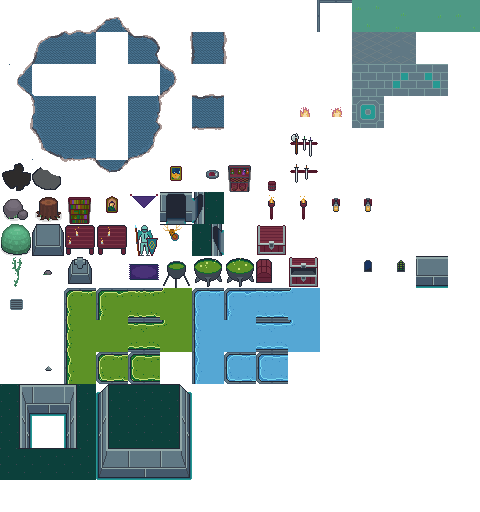
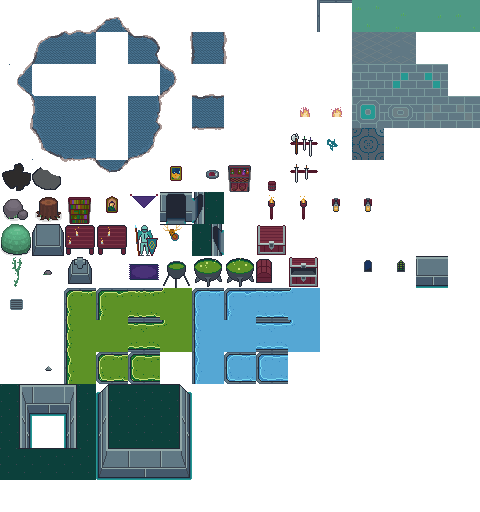
wip

Changed region(s): [[0.6875, 0.1875, 1.0, 0.3125]]

diff --git a/src/bot.rs b/src/bot.rs
@@ -228,6 +228,17 @@ impl EnemyTargetSelection {
     ) -> (Vec<&'a Rc<Character>>, CharacterId) {
         let bot = game.active_character();
 
+        // TODO:
+        // Balanced algorithm for picking a random (but reasonable) target:
+        // 1: collect vec![(distance_to, player_ch)]
+        // 2: rank them into buckets: [d=0, d<=4, d<=8, d<=12, d<=16, d <=20, d<=24, unreachable]
+        // 3: move current target between buckets depending on how many actions you've landed on it
+        //     0: -2,    1: 0,    2: +1,   3 turns: +2,   etc (but never move into "unreachable"-bucket from this)
+        // 4: for bucket[i] in buckets
+        //    if p(50%) and there is some non-empty bucket[>i], skip to i+1
+        //    else if bucket[i] is empty, continue to i+1
+        //    else: pick a random target from bucket[i]
+
         let mut player_chars: Vec<&Rc<Character>> = game.player_characters().collect();
 
         if let Some(target_id) = self.current_target.get() {
@@ -259,10 +270,18 @@ impl EnemyTargetSelection {
 
         let mut target_id = self.current_target.get().unwrap();
 
+        {
+            let current_target = player_chars.iter().find(|ch| ch.id() == target_id).unwrap();
+            let path = find_path(game, bot, current_target, action_range);
+            println!("Current target path:");
+            if let Some(path) = path {
+                dbg!(path.nodes.len(), path.total_distance);
+            }
+        }
+
         let chance_switch_target = self.chance_of_switching_target.get();
-        dbg!(chance_switch_target);
         let should_switch_target = random_range(0.0..1.0) < chance_switch_target;
-        dbg!(should_switch_target);
+        dbg!(chance_switch_target, should_switch_target);
         if should_switch_target {
             self.chance_of_switching_target.set(0.0);
         } else if self.chance_of_switching_target.get() == 0.0 {
@@ -279,8 +298,10 @@ impl EnemyTargetSelection {
             if let Some(new_target) = player_chars.iter().find(|ch| ch.id() != target_id) {
                 println!("switching to new target?: {}", new_target.id());
 
-                if find_path(game, bot, new_target, action_range).is_some() {
+                let path = find_path(game, bot, new_target, action_range);
+                if let Some(path) = path {
                     println!("Yes, there's a path to it ");
+                    dbg!(path.nodes.len(), path.total_distance);
                     self.current_target.set(Some(new_target.id()));
                     target_id = new_target.id();
                 }
@@ -288,6 +309,8 @@ impl EnemyTargetSelection {
         } else {
             println!("bot sticks with current target: {:?}", self.current_target);
         }
+
+        println!("-----------------------------------------");
 
         //target_id = 2; // TODO
 

diff --git a/src/data.rs b/src/data.rs
@@ -435,6 +435,23 @@ pub const BAD_WAR_HAMMER: Weapon = Weapon {
     weight: 5,
 };
 
+pub const WAR_AXE: Weapon = Weapon {
+    name: "War axe",
+    range: WeaponRange::Melee,
+    action_point_cost: 3,
+    damage: 7,
+    grip: WeaponGrip::TwoHanded,
+    attack_attribute: AttackAttribute::Strength,
+    attack_enhancement: None,
+    on_attacked_reaction: None,
+    bonus_melee_evasion: 3,
+    on_damage: None,
+    on_kill_apply_self: None,
+    sprite: Some(SpriteId::Waraxe),
+    icon: EquipmentIconId::Waraxe,
+    weight: 5,
+};
+
 pub const WAR_HAMMER: Weapon = Weapon {
     name: "War hammer",
     range: WeaponRange::Melee,
@@ -815,7 +832,7 @@ const fn grenade_ability(id: AbilityId, name: &'static str, target: AbilityTarge
     Ability {
         id,
         name,
-        speech: "Take this!",
+        speech: "Hey, catch!",
         description: "",
         icon: IconId::Undefined,
         action_point_cost: 2,
@@ -981,7 +998,7 @@ pub const SMALL_SHIELD: Shield = Shield {
     evasion: 3,
     armor: 0,
     on_hit_reaction: None,
-    on_attacked_reaction: Some(BLOCK_3),
+    on_attacked_reaction: Some(BLOCK),
     weight: 2,
 };
 
@@ -1003,7 +1020,7 @@ pub const MEDIUM_SHIELD: Shield = Shield {
     evasion: 3,
     armor: 1,
     on_hit_reaction: None,
-    on_attacked_reaction: Some(BLOCK_3),
+    on_attacked_reaction: Some(BLOCK),
     weight: 3,
 };
 
@@ -1127,18 +1144,18 @@ pub const PARRY_2: OnAttackedReaction = OnAttackedReaction {
     target: OnAttackedReactionTarget::OnlySelf,
 };
 
-pub const BLOCK_3: OnAttackedReaction = OnAttackedReaction {
+pub const BLOCK: OnAttackedReaction = OnAttackedReaction {
     id: OnAttackedReactionId::Block,
     name: "Block",
     granted_from: None,
-    description: "Protect yourself or adjacent ally, preventing |<value>3| attack damage |<faded>(once per round)|",
+    description: "Protect yourself or adjacent ally, preventing |<value>2| attack damage |<faded>(once per round)|",
     icon: IconId::Block,
     action_point_cost: 0,
     stamina_cost: 1,
     effect: OnAttackedReactionEffect {
         bonus_evasion: 0,
         bonus_armor: 0,
-        damage_prevention: 3,
+        damage_prevention: 2,
         thorns: 0,
     },
     required_attack_type: None,
@@ -2772,7 +2789,7 @@ const fn potion_ability(
     Ability {
         id,
         name,
-        speech: "",
+        speech: "Ahh...",
         description: "",
         icon: IconId::Undefined,
         action_point_cost: 1,

diff --git a/src/textures.rs b/src/textures.rs
@@ -34,6 +34,7 @@ pub enum SpriteId {
     Ogre,
     Magi,
     Warhammer,
+    Waraxe,
     Staff,
     Bow,
     Sword,
@@ -73,6 +74,7 @@ pub async fn load_all_sprites() -> HashMap<SpriteId, Sprite> {
         (SpriteId::Ogre, "ogre.png"),
         (SpriteId::Magi, "magi.png"),
         (SpriteId::Warhammer, "warhammer.png"),
+        (SpriteId::Waraxe, "waraxe.png"),
         (SpriteId::Staff, "staff.png"),
         (SpriteId::Bow, "bow.png"),
         (SpriteId::Sword, "sword.png"),
@@ -332,6 +334,7 @@ pub enum EquipmentIconId {
     HungeringBlade,
     SmallShield,
     SpikeShield,
+    Waraxe,
     MediumShield,
     LeatherArmor,
     ChainMail,
@@ -531,6 +534,10 @@ pub enum TerrainId {
     Floor4,
     Floor5,
     Floor6,
+    Floor7,
+    Floor8,
+    Floor9,
+    Dirt,
     SpikesSingleCell,
     FireSurfaceSingleCell,
 
@@ -701,6 +708,10 @@ pub fn terrain_atlas_area(terrain_id: TerrainId, screen_pos: (f32, f32)) -> (f32
         TerrainId::Floor4 => (12, 1),
         TerrainId::Floor5 => (12, 2),
         TerrainId::Floor6 => (13, 2),
+        TerrainId::Floor7 => (12, 3),
+        TerrainId::Floor8 => (13, 3),
+        TerrainId::Floor9 => (14, 3),
+        TerrainId::Dirt => (11, 4),
         TerrainId::NewWater(orientation, type_) => {
             is_poison = type_ == LiquidType::Poison;
             match orientation {
@@ -1042,6 +1053,7 @@ pub fn draw_eq_icon(icon: EquipmentIconId, x: f32, y: f32, dest_size: Option<(f3
         EquipmentIconId::HungeringBlade => (6, 0),
         EquipmentIconId::SmallShield => (4, 1),
         EquipmentIconId::SpikeShield => (6, 1),
+        EquipmentIconId::Waraxe => (7, 1),
         EquipmentIconId::MediumShield => (0, 2),
         EquipmentIconId::LeatherArmor => (2, 2),
         EquipmentIconId::ChainMail => (1, 2),

diff --git a/src/map_data.rs b/src/map_data.rs
@@ -21,7 +21,7 @@ use crate::{
         KILL, KILL_SELF, LIGHTNING_BOLT, LIGHTNING_BOLT_REACH, LIQUID_FIRE, LUNGE_ATTACK,
         MANA_POTION, NECROTIC_BAND, PENETRATING_ARROWS, RUBY, SAPHIRE, SLASHING_RAPIER,
         SMALL_SHIELD, SPIKETEST, SPIKE_SHIELD, SPIKE_TRAP, STAFF, SWEEP_ATTACK_PUSH, TOXIC_GRENADE,
-        WAR_HAMMER,
+        WAR_AXE, WAR_HAMMER,
     },
     grid::{ControlPoint, GameGrid},
     pathfind::{Occupation, PathfindGrid, Surface},
@@ -261,6 +261,7 @@ pub enum WeaponId {
     BadRapier,
     EnslavedRapier,
     BadBow,
+    WarAxe,
 }
 
 #[derive(Serialize, Deserialize, Debug, Copy, Clone)]
@@ -276,6 +277,7 @@ fn create_weapon(id: WeaponId) -> Weapon {
         WeaponId::BadRapier => BAD_RAPIER,
         WeaponId::EnslavedRapier => ENSLAVED_RAPIER,
         WeaponId::BadBow => BAD_BOW,
+        WeaponId::WarAxe => WAR_AXE,
     }
 }
 
@@ -622,7 +624,7 @@ pub fn make_high_bob(party: &Rc<Party>) -> Character {
         Attributes::new(5, 3, 3, 5),
         (2, 10),
     );
-    bob.set_weapon(HandType::MainHand, WAR_HAMMER);
+    bob.set_weapon(HandType::MainHand, WAR_AXE);
     //bob.set_shield(SPIKE_SHIELD);
     bob.armor_piece.set(Some(LEATHER_ARMOR));
     bob.learn_passive(PassiveSkill::Reaper);

diff --git a/src/resources.rs b/src/resources.rs
@@ -47,6 +47,23 @@ impl GameResources {
         //let tiny_font = load_font("tiny5/Tiny5-SolidRegular.ttf").await;
 
         let terrain_atlas = load_and_init_texture("terrain_atlas.png").await;
+
+        // Change background tiles to "night time"
+        let night_time = false;
+        if night_time {
+            replace_color(&terrain_atlas, |[r, g, b, a]| {
+                if r > g && r > b {
+                    [r, g, b, a]
+                } else {
+                    [
+                        (r as f32 * 0.1) as u8,
+                        (g as f32 * 0.8) as u8,
+                        (b as f32 * 0.8) as u8,
+                        a,
+                    ]
+                }
+            });
+        }
         let effect_textures = load_all_effects().await;
 
         Self {
@@ -59,6 +76,14 @@ impl GameResources {
             effect_textures,
         }
     }
+}
+
+fn replace_color(texture: &Texture2D, f: impl Fn([u8; 4]) -> [u8; 4]) {
+    let mut img = texture.get_texture_data();
+    for pixel in img.get_image_data_mut() {
+        *pixel = f(*pixel);
+    }
+    texture.update(&img);
 }
 
 pub fn init_core_game(

diff --git a/src/equipment_ui.rs b/src/equipment_ui.rs
@@ -177,18 +177,13 @@ fn weapon_tooltip(weapon: &Weapon) -> Tooltip {
             .push(bonus_melee_evasion_str(weapon.bonus_melee_evasion));
     }
     if let Some(effect) = weapon.on_damage {
-        t.technical_description.push(format!("On damage: {effect}"));
-
-        match effect.apply_effect() {
-            ApplyEffect::Condition(apply_condition) => t.keywords.push(Keyword::Cond(
-                apply_condition.condition,
-                apply_condition.stacks,
-            )),
-            ApplyEffect::LoseCondition { condition } => {
-                t.keywords.push(Keyword::Cond(condition, None))
-            }
-            _ => {}
+        let mut line = "On damage: ".to_string();
+        match effect {
+            AttackHitEffect::ApplyTarget(..) => line.push_str("|<faded>(target)|"),
+            AttackHitEffect::ApplySelf(..) => line.push_str("|<faded>(self)|"),
         }
+        t.technical_description.push(line);
+        describe_apply_effect(effect.apply_effect(), &mut t);
     }
     if let Some(effect) = weapon.on_kill_apply_self {
         t.technical_description.push(format!("On kill: {effect}"));

diff --git a/src/bin/editor.rs b/src/bin/editor.rs
@@ -563,10 +563,14 @@ impl Sidebar {
             TerrainId::Floor4,
             TerrainId::Floor5,
             TerrainId::Floor6,
+            TerrainId::Floor7,
+            TerrainId::Floor8,
+            TerrainId::Floor9,
             TerrainId::Grass,
             TerrainId::Grass2,
             TerrainId::Grass3,
             TerrainId::Grass4,
+            TerrainId::Dirt,
         ];
 
         let mut background_actions: Vec<EditorAction> = backgrounds
